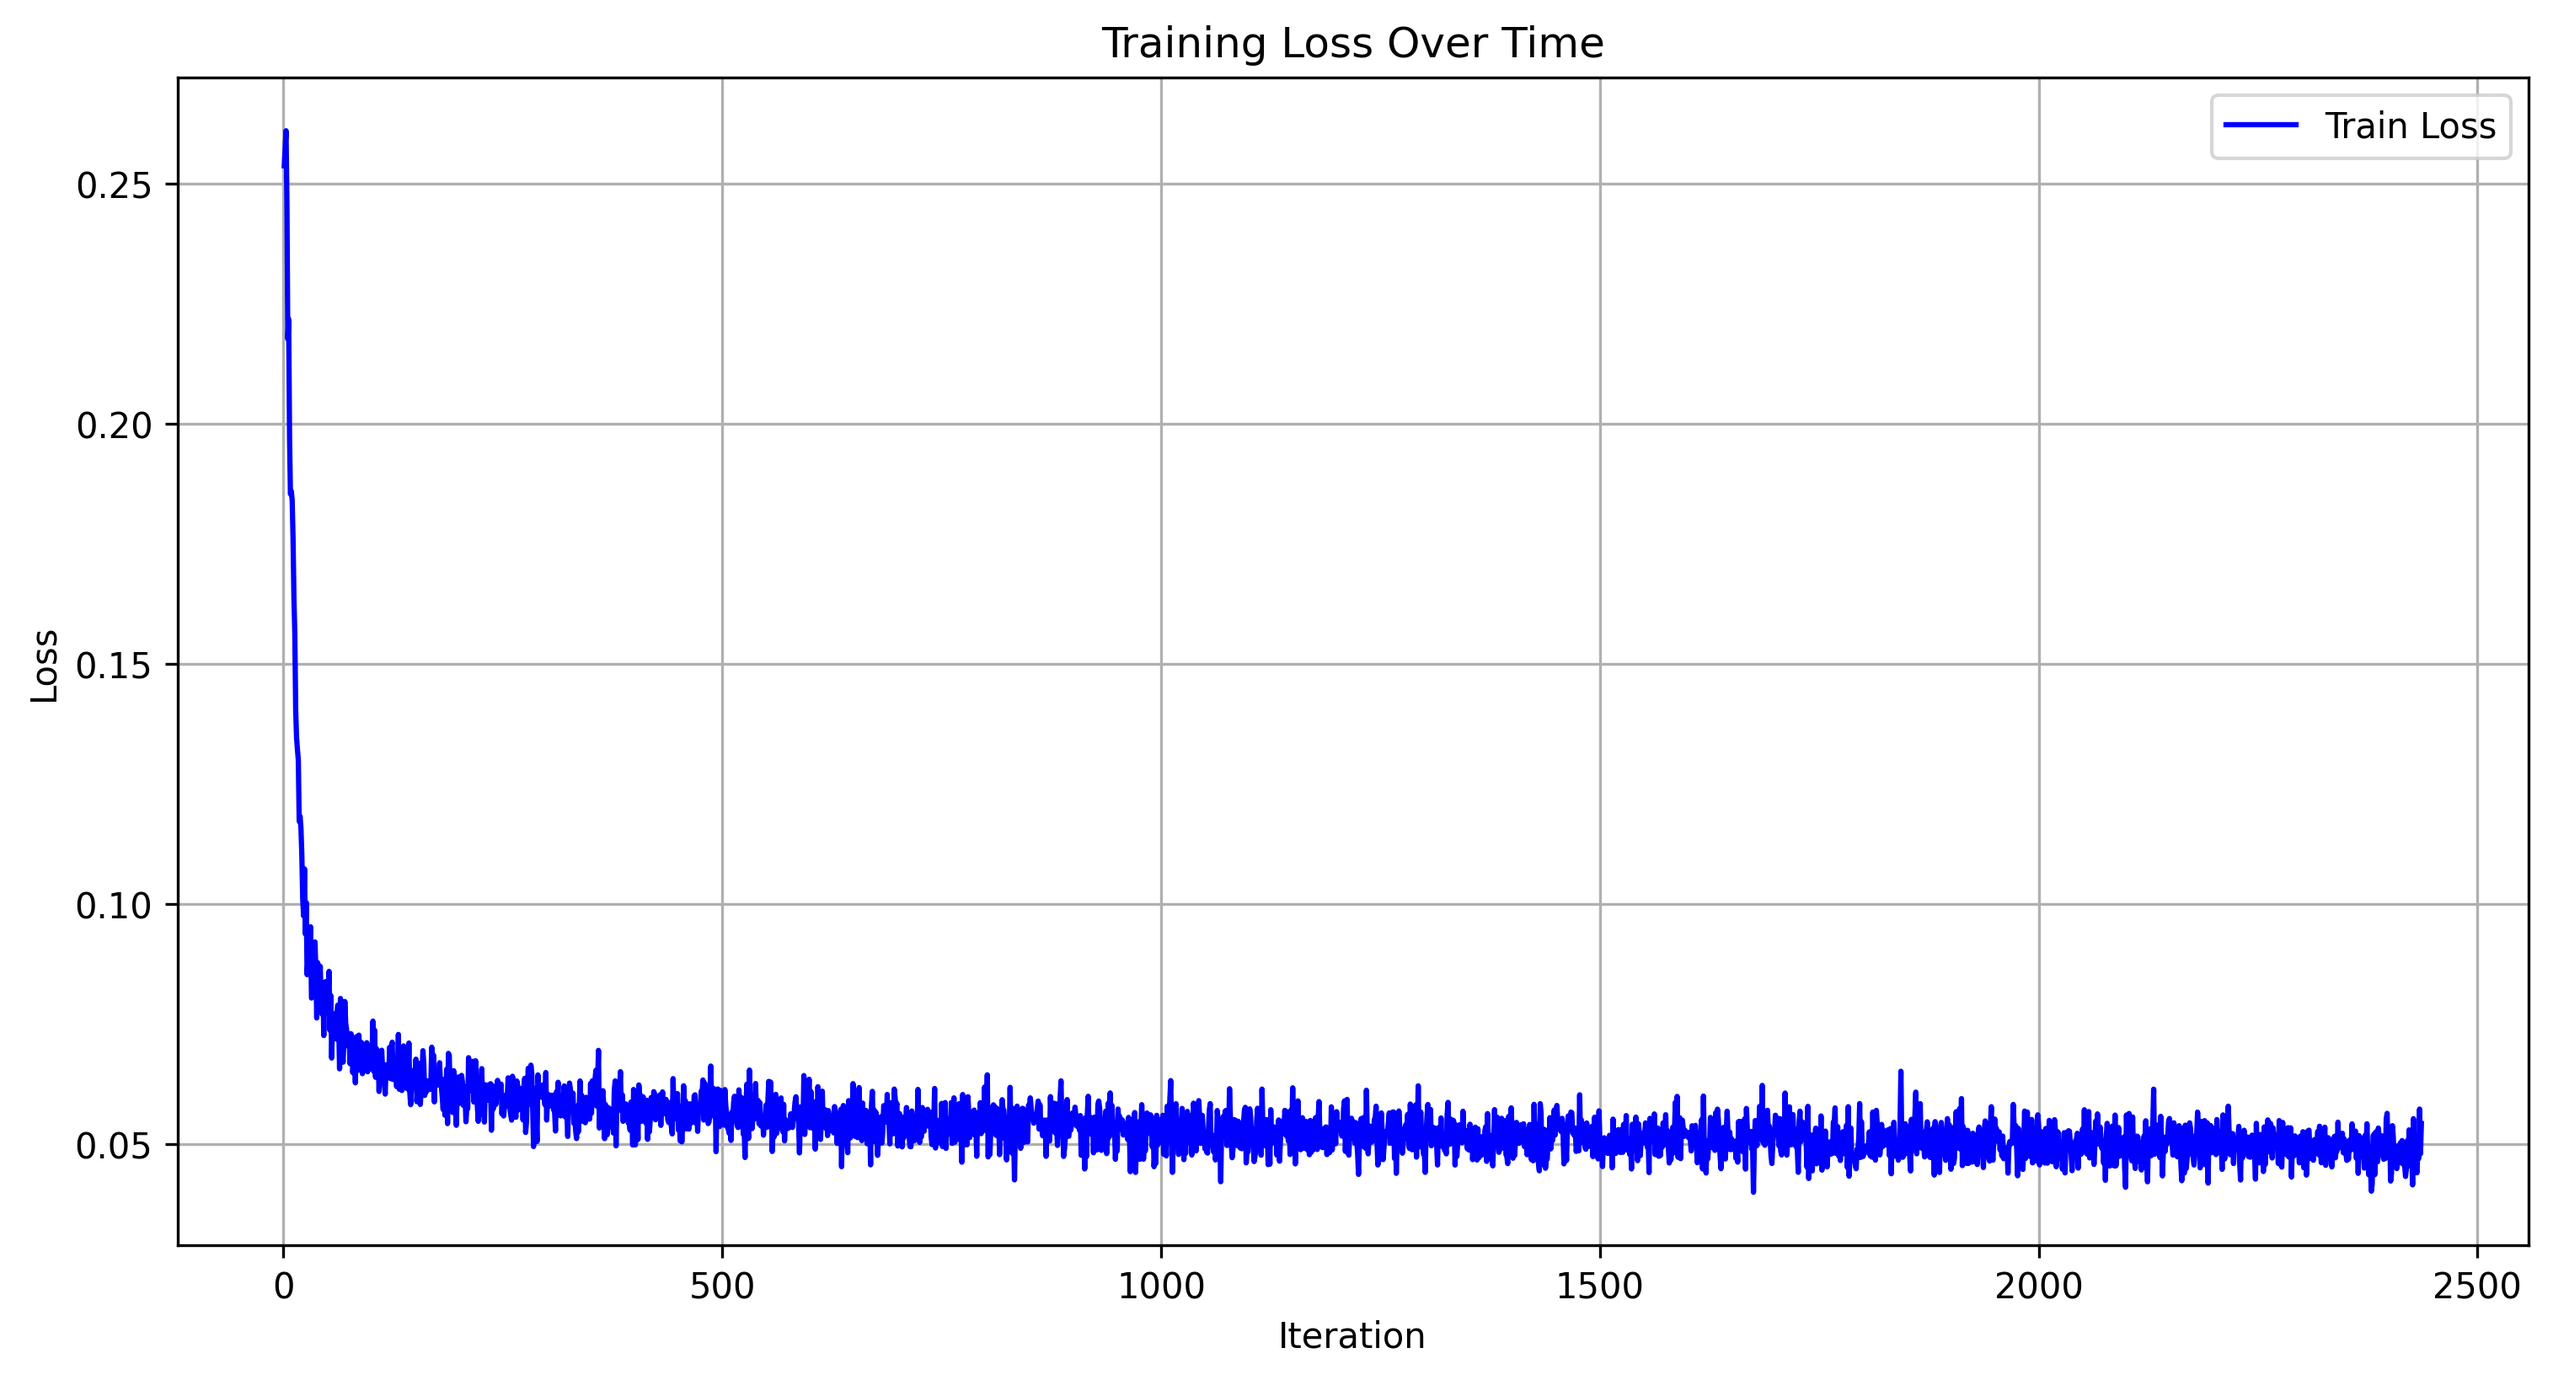
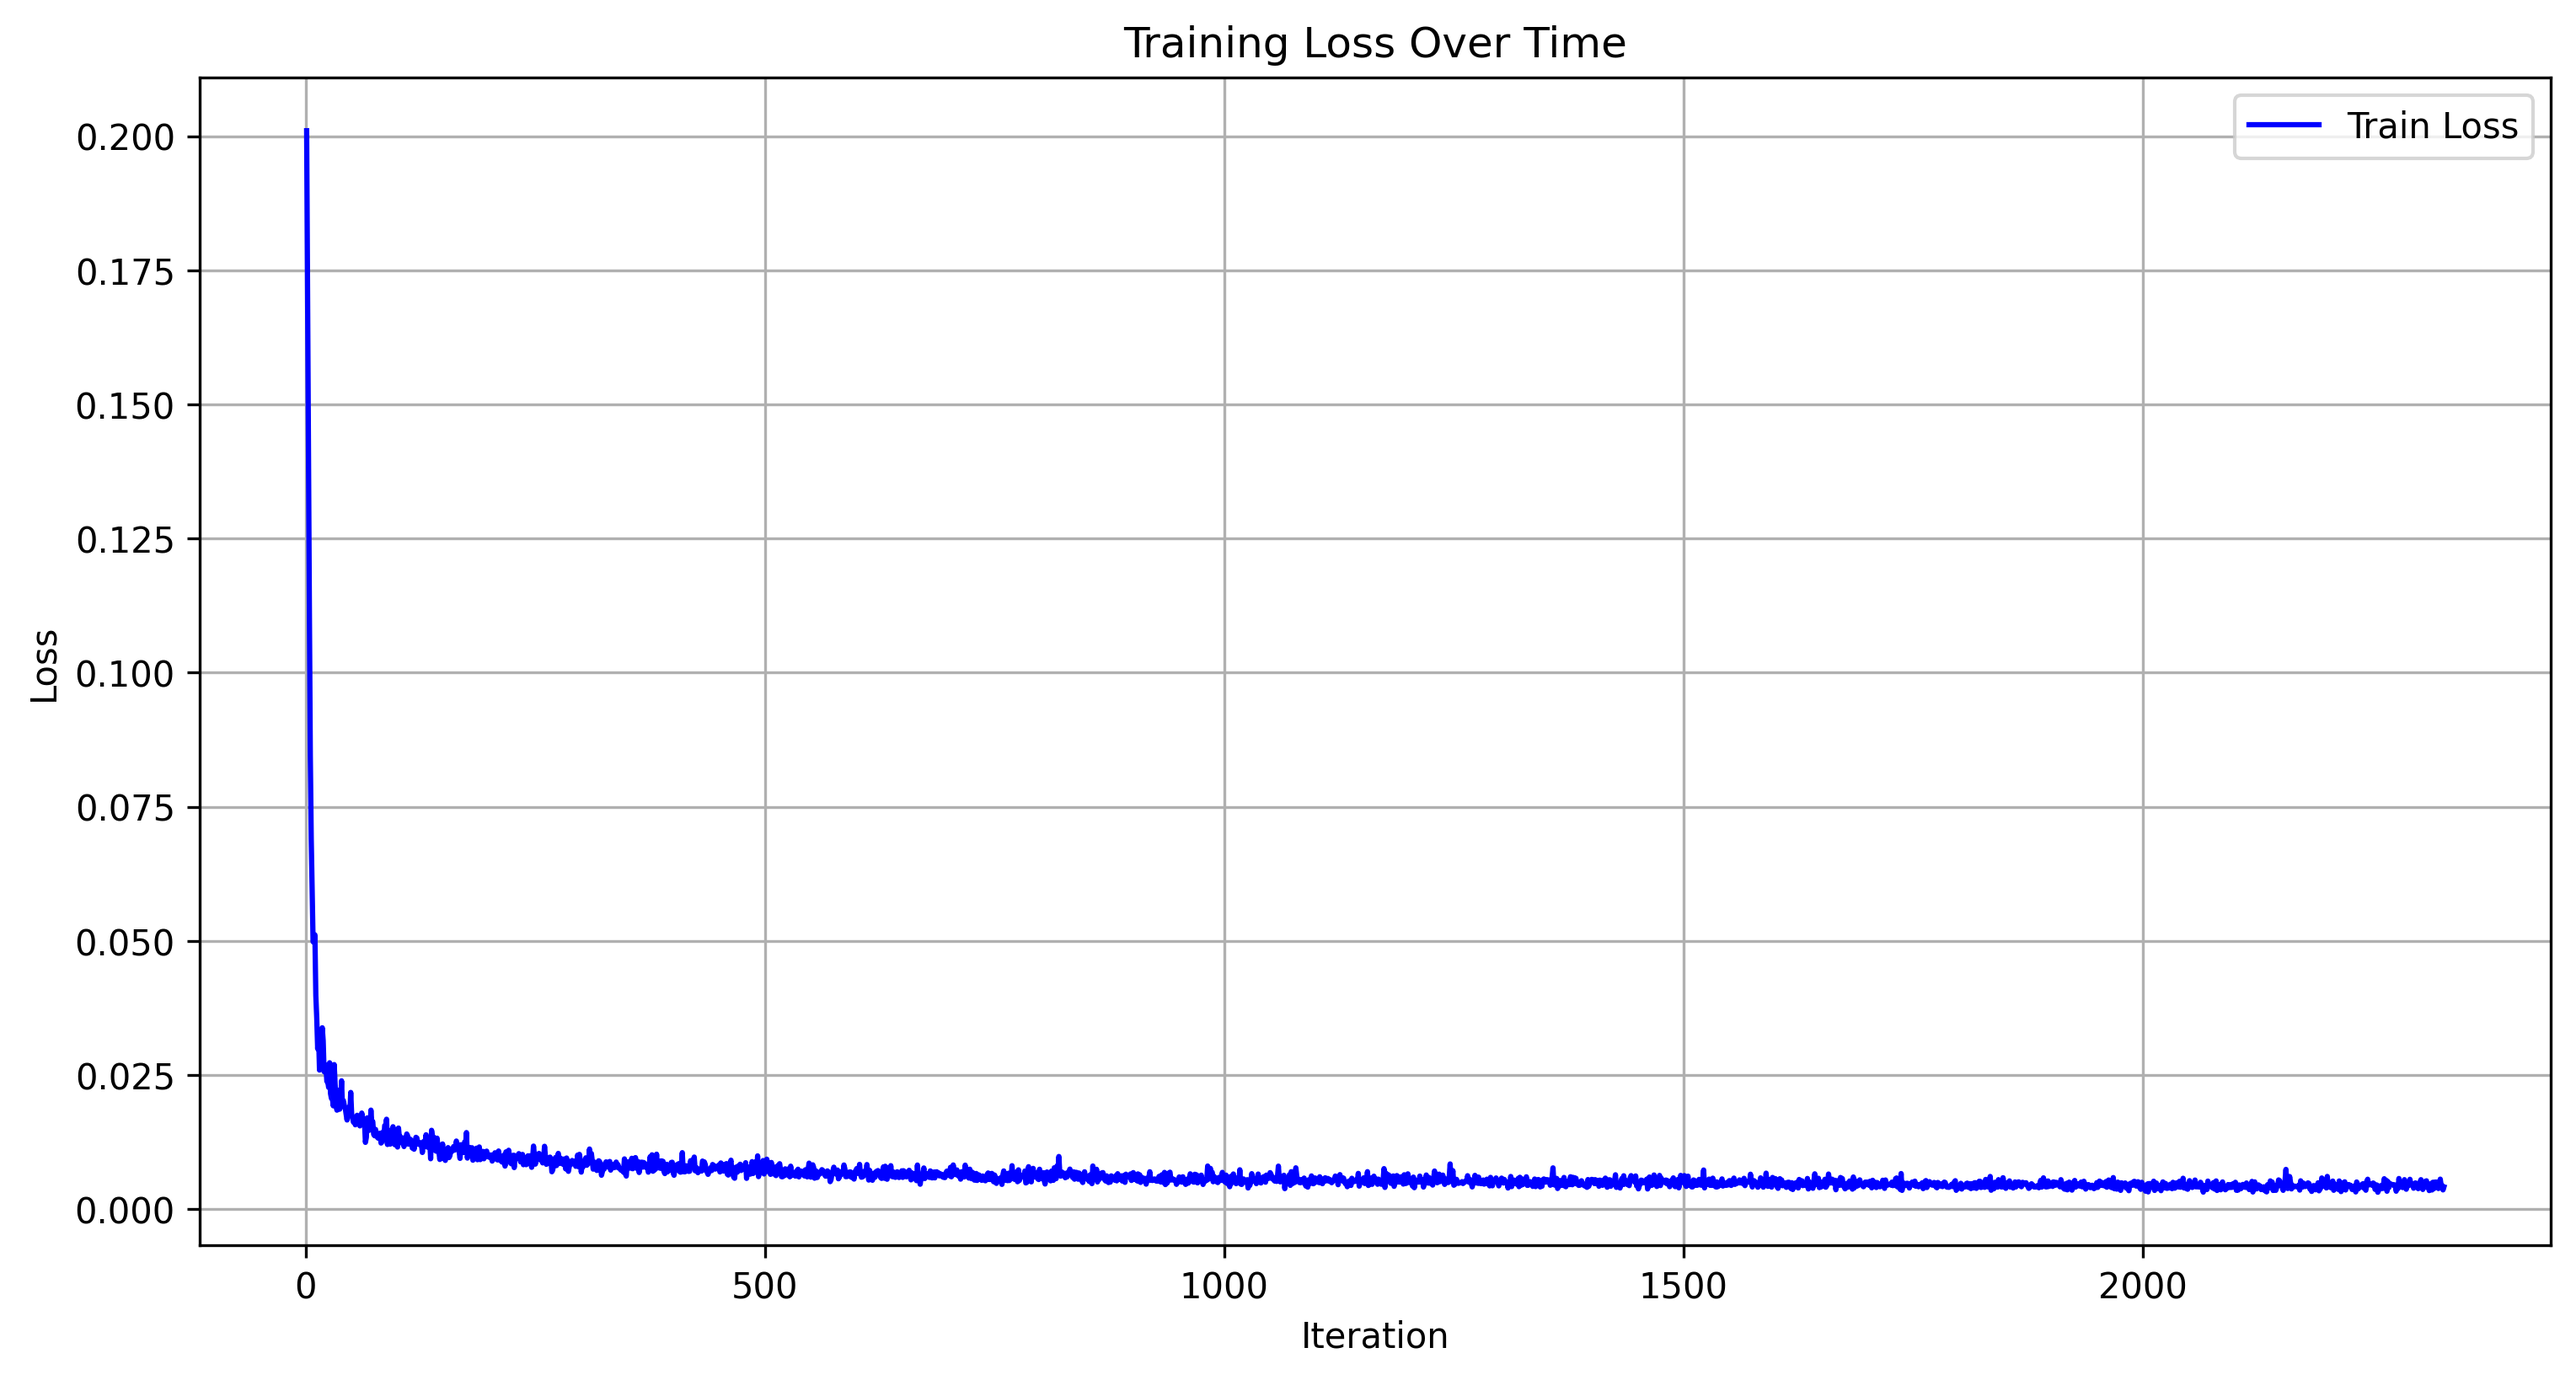
mod

diff --git a/plot_loss.py b/plot_loss.py
@@ -3,7 +3,7 @@ import matplotlib.pyplot as plt
 import numpy as np
 
 # Read the loss file
-with open('loss.txt', 'r') as f:
+with open('loss_1step.txt', 'r') as f:
     lines = f.readlines()
 
 # Extract training loss values
